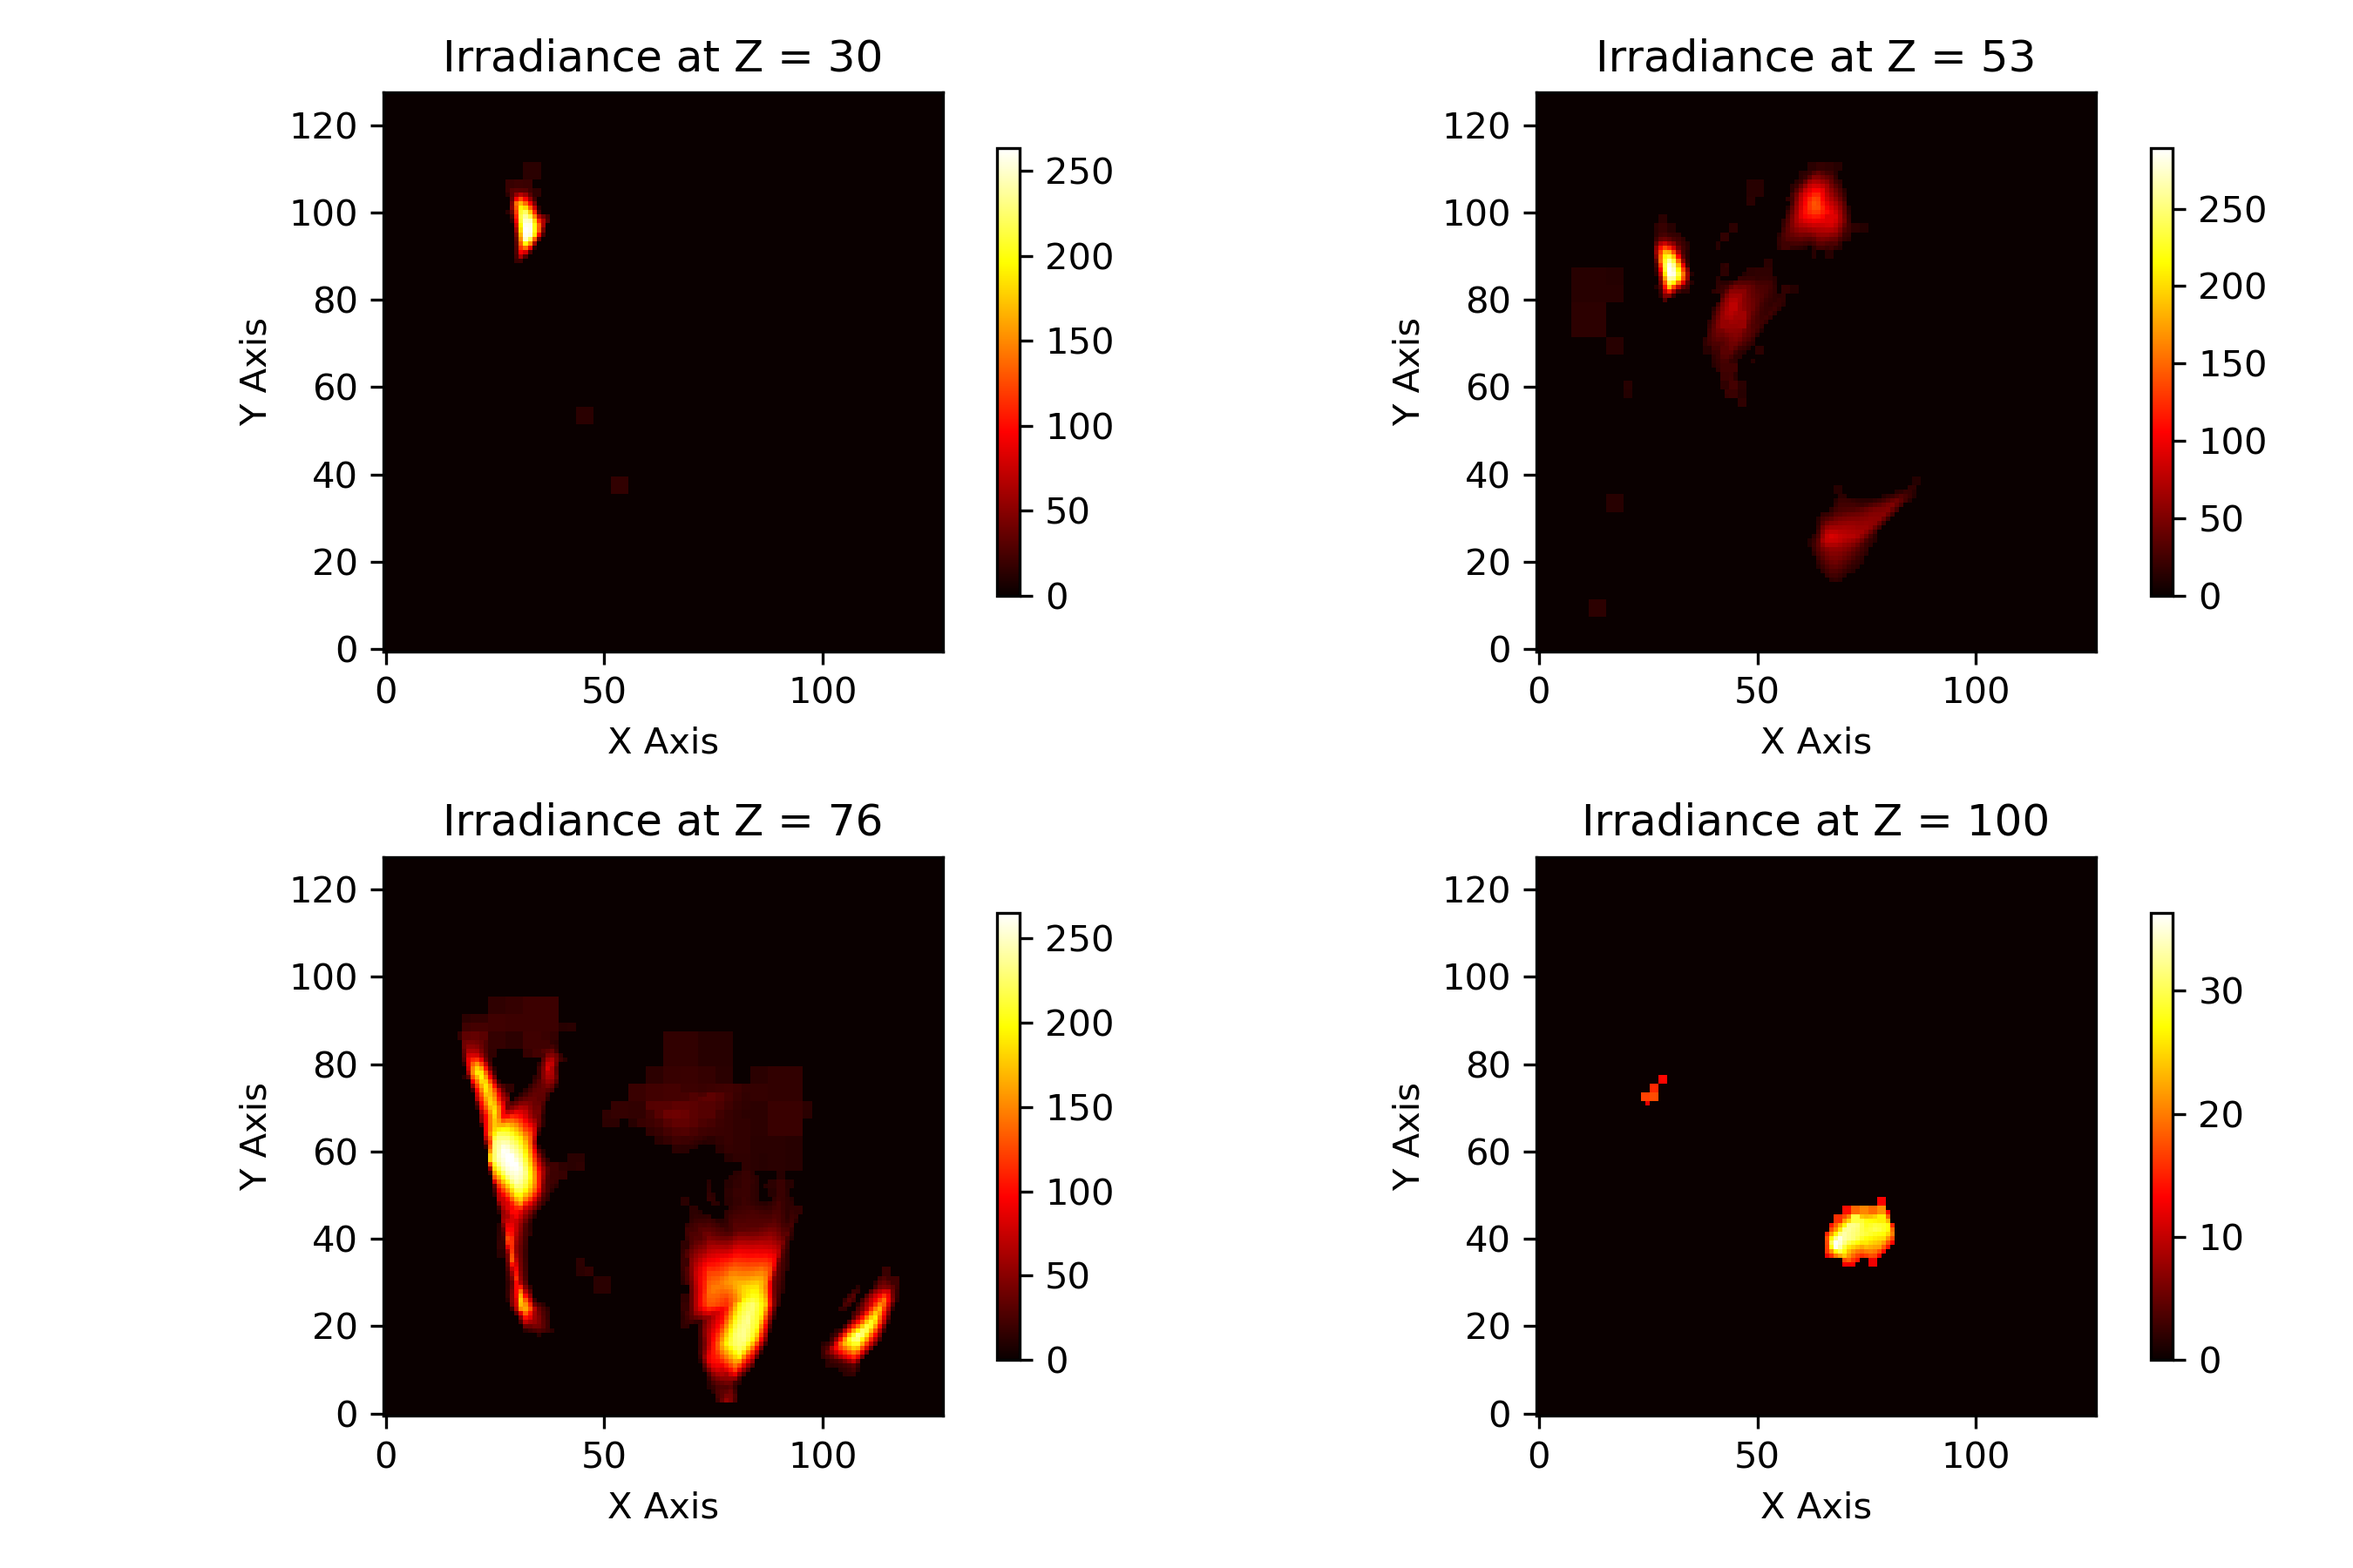
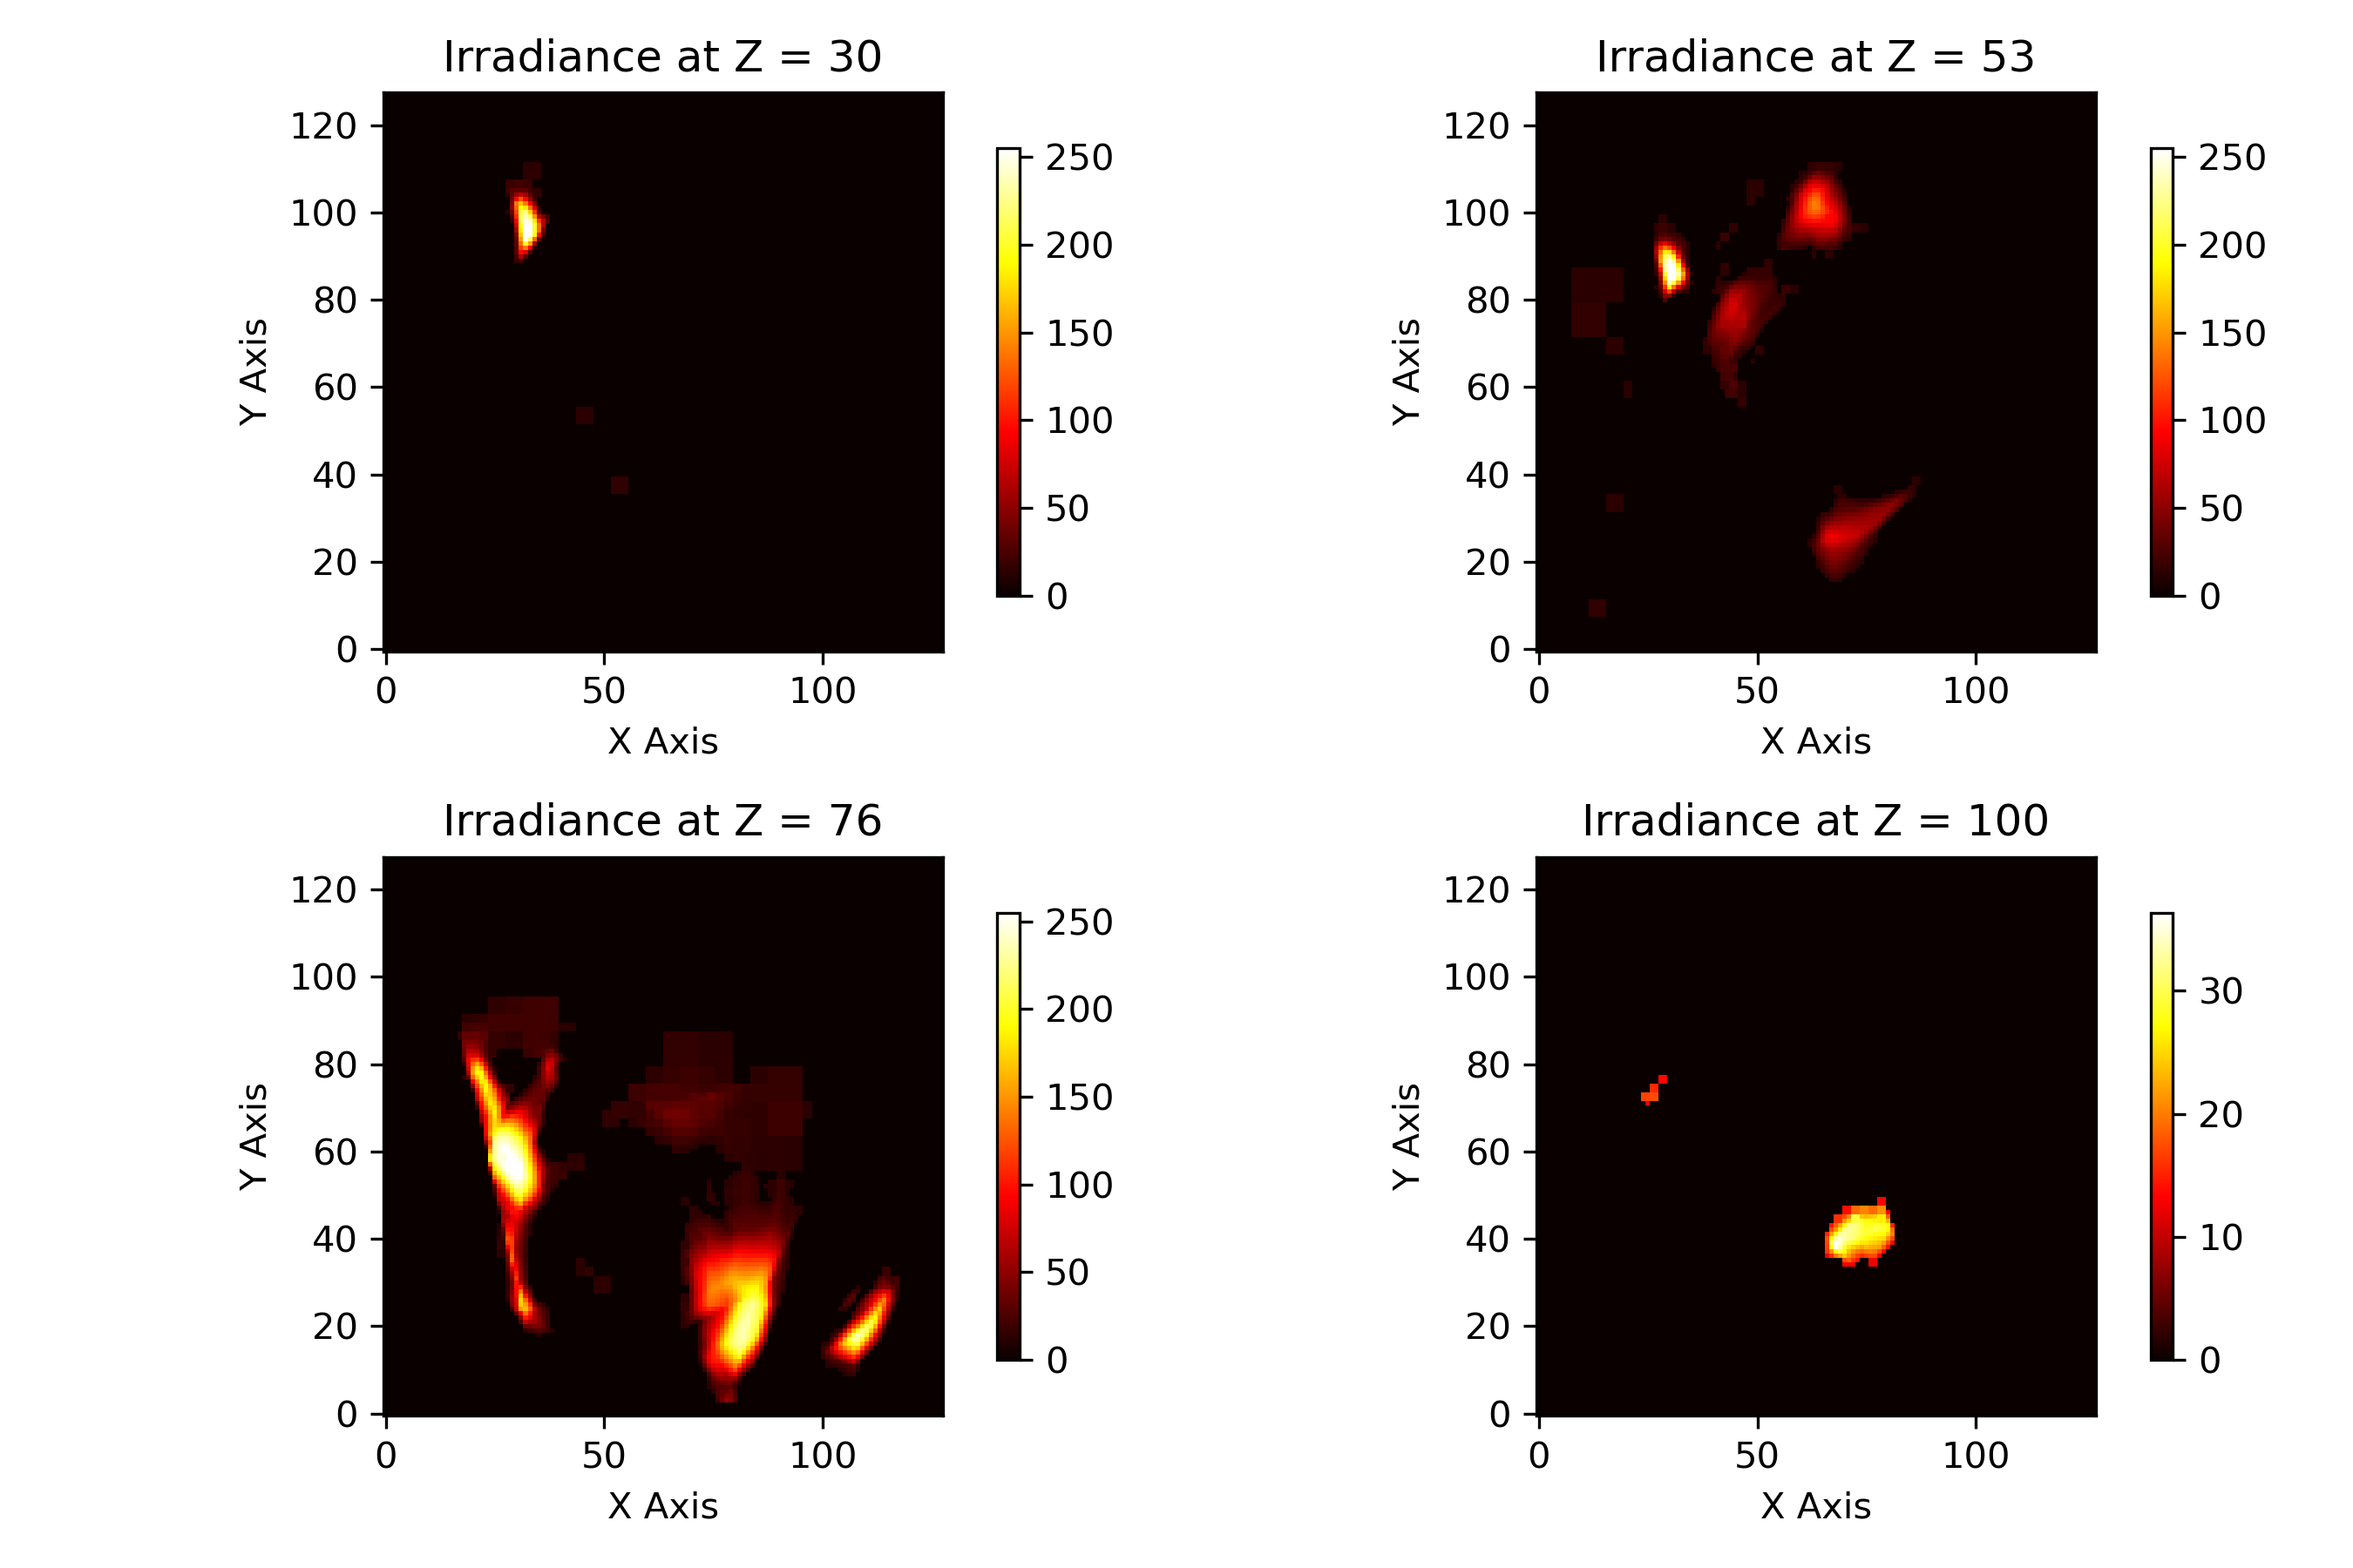
Increase SSP to 60 and add image compare

diff --git a/image_compare.py b/image_compare.py
@@ -1,0 +1,96 @@
+import numpy as np
+import cv2
+import os
+import matplotlib.pyplot as plt
+from mpl_toolkits.axes_grid1 import make_axes_locatable
+
+def load_images(image1_path, image2_path):
+    img1 = cv2.imread(image1_path)
+    img2 = cv2.imread(image2_path)
+    # 将BGR转换为RGB颜色空间
+    img1 = cv2.cvtColor(img1, cv2.COLOR_BGR2RGB)
+    img2 = cv2.cvtColor(img2, cv2.COLOR_BGR2RGB)
+    return img1, img2
+
+def calculate_numerical_difference(img1, img2):
+    return np.abs(img1.astype(np.float32) - img2.astype(np.float32)).mean(axis=2)
+
+def calculate_gradient_difference(img1, img2):
+    gray1 = cv2.cvtColor(img1, cv2.COLOR_RGB2GRAY)
+    gray2 = cv2.cvtColor(img2, cv2.COLOR_RGB2GRAY)
+    sobelx1 = cv2.Sobel(gray1, cv2.CV_64F, 1, 0, ksize=3)
+    sobely1 = cv2.Sobel(gray1, cv2.CV_64F, 0, 1, ksize=3)
+    sobelx2 = cv2.Sobel(gray2, cv2.CV_64F, 1, 0, ksize=3)
+    sobely2 = cv2.Sobel(gray2, cv2.CV_64F, 0, 1, ksize=3)
+    
+    grad_diff_x = np.abs(sobelx1 - sobelx2)
+    grad_diff_y = np.abs(sobely1 - sobely2)
+    
+    return np.sqrt(grad_diff_x**2 + grad_diff_y**2)
+
+def calculate_divergence_difference(img1, img2):
+    gray1 = cv2.cvtColor(img1, cv2.COLOR_RGB2GRAY)
+    gray2 = cv2.cvtColor(img2, cv2.COLOR_RGB2GRAY)
+    laplacian1 = cv2.Laplacian(gray1, cv2.CV_64F)
+    laplacian2 = cv2.Laplacian(gray2, cv2.CV_64F)
+    return np.abs(laplacian1 - laplacian2)
+
+def apply_threshold(diff, threshold):
+    return np.where(diff < threshold, 0, diff)
+
+def visualize_differences(img1, img2, num_diff, grad_diff, div_diff, thresholds):
+    num_diff_thresholded = apply_threshold(num_diff, thresholds['numerical'])
+    grad_diff_thresholded = apply_threshold(grad_diff, thresholds['gradient'])
+    div_diff_thresholded = apply_threshold(div_diff, thresholds['divergence'])
+    
+    fig, axs = plt.subplots(2, 3, figsize=(18, 12))
+    
+    axs[0, 0].imshow(img1)
+    axs[0, 0].set_title('Image 1')
+    axs[0, 1].imshow(img2)
+    axs[0, 1].set_title('Image 2')
+    
+    def add_colorbar(im, ax):
+        divider = make_axes_locatable(ax)
+        cax = divider.append_axes("right", size="5%", pad=0.05)
+        return fig.colorbar(im, cax=cax)
+    
+    im2 = axs[0, 2].imshow(num_diff_thresholded, cmap='hot')
+    axs[0, 2].set_title(f'Numerical Difference (threshold: {thresholds["numerical"]})')
+    add_colorbar(im2, axs[0, 2])
+    
+    im3 = axs[1, 0].imshow(grad_diff_thresholded, cmap='hot')
+    axs[1, 0].set_title(f'Gradient Difference (threshold: {thresholds["gradient"]})')
+    add_colorbar(im3, axs[1, 0])
+    
+    im4 = axs[1, 1].imshow(div_diff_thresholded, cmap='hot')
+    axs[1, 1].set_title(f'Divergence Difference (threshold: {thresholds["divergence"]})')
+    add_colorbar(im4, axs[1, 1])
+    
+    combined_diff = num_diff_thresholded + grad_diff_thresholded + div_diff_thresholded
+    im5 = axs[1, 2].imshow(combined_diff, cmap='hot')
+    axs[1, 2].set_title('Combined Difference (thresholded)')
+    add_colorbar(im5, axs[1, 2])
+    
+    plt.tight_layout()
+    plt.show()
+
+def compare_images(image1_path, image2_path, thresholds):
+    img1, img2 = load_images(image1_path, image2_path)
+    
+    num_diff = calculate_numerical_difference(img1, img2)
+    grad_diff = calculate_gradient_difference(img1, img2)
+    div_diff = calculate_divergence_difference(img1, img2)
+    
+    visualize_differences(img1, img2, num_diff, grad_diff, div_diff, thresholds)
+image1_path = os.path.join(os.getcwd(), "images", "Light_wooden_floor_room_4k.hdr", "bunny", "MLP_0.png")
+image2_path = os.path.join(os.getcwd(), "images", "Light_wooden_floor_room_4k.hdr", "bunny", "Origin_0.png")
+print(image1_path)
+print(image2_path)
+thresholds = {
+    'numerical': 10,  # 0-255 范围内的阈值
+    'gradient': 30,   # 根据图像特征调整
+    'divergence': 50 # 根据图像特征调整
+}
+compare_images(image1_path, image2_path, thresholds)
+# compare_images(image1_path, image2_path)

diff --git a/setup/scene.py b/setup/scene.py
@@ -67,7 +67,7 @@ class Scene:
             self.renderer.reset_framebuffer()
             self.renderer.recompute_bbox()
 
-            for _cur_spp in range(10):
+            for _cur_spp in range(60):
                 self.renderer.ray_marching()
                 self.renderer.current_spp += 1
             
